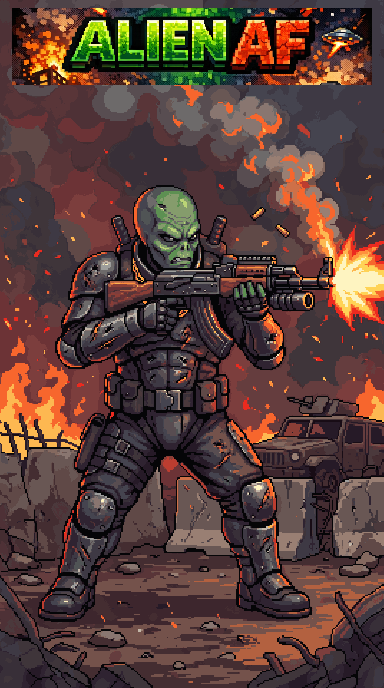
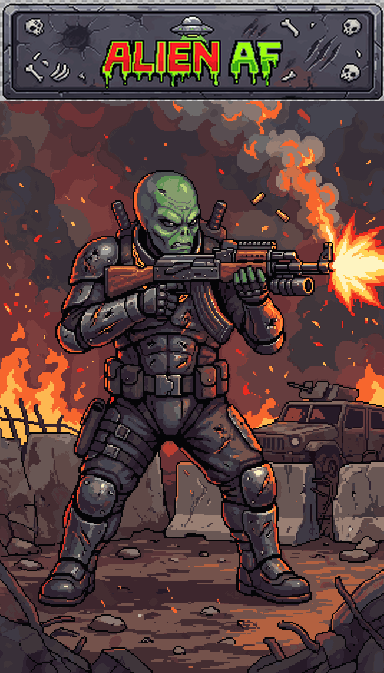
feat: themed PixelLab headers and row cards for the leaderboard page
Alien AF banner gets the new chaos/bones header. Leaderboard tabs and
section headers now use matching PixelLab art per game (Alien AF,
Currency of War, Foxstead), and score rows use themed 9-slice panels
pulled from the same generations.

diff --git a/app/components/Leaderboard.tsx b/app/components/Leaderboard.tsx
@@ -22,10 +22,9 @@ export default function Leaderboard() {
 
   const games = [
     { key: "all", title: "All Games" },
-    { key: "foxstead", title: "FoxStead" },
-    { key: "catacombs", title: "Alien Catacombs" },
-    { key: "dungeon", title: "Dungeon Crawler" },
-    { key: "invasion", title: "Gumbuo Invasion" },
+    { key: "catacombs", title: "Alien AF", header: "/leaderboard-header-alienaf.png" },
+    { key: "currencyofwar", title: "Currency of War", header: "/leaderboard-header-currencyofwar.png" },
+    { key: "foxstead", title: "FoxStead", header: "/leaderboard-header-foxstead.png" },
   ];
 
   useEffect(() => {
@@ -55,10 +54,9 @@ export default function Leaderboard() {
   // Group scores by game for "All Games" view
   const groupedScores = () => {
     const groups: { [key: string]: ScoreEntry[] } = {
-      foxstead: [],
       catacombs: [],
-      dungeon: [],
-      invasion: [],
+      currencyofwar: [],
+      foxstead: [],
     };
 
     scores.forEach((score) => {
@@ -75,18 +73,40 @@ export default function Leaderboard() {
     return game ? game.title : gameKey;
   };
 
+  const getGameHeader = (gameKey: string) => {
+    const game = games.find(g => g.key === gameKey);
+    return game && 'header' in game ? game.header : null;
+  };
+
+  const rowPanels: { [key: string]: { src: string; slice: string; width: string } } = {
+    catacombs: { src: '/leaderboard-row-alienaf.png', slice: '10 34', width: '24px' },
+    foxstead: { src: '/leaderboard-row-foxstead.png', slice: '30 110', width: '46px' },
+    currencyofwar: { src: '/leaderboard-row-currencyofwar.png', slice: '70', width: '36px' },
+  };
+  const getRowPanel = (gameKey: string) => rowPanels[gameKey] ?? null;
+
   const renderScoreRow = (entry: ScoreEntry, index: number, globalRank?: number) => {
     const rankToShow = globalRank !== undefined ? globalRank : index + 1;
-    const isCatacombs = entry.game === 'catacombs';
-    const isDungeon = entry.game === 'dungeon';
-    const isInvasion = entry.game === 'invasion';
     // Show stats for any game that has kills, highestLevel, or catacombs-specific stats
     const hasStats = entry.kills !== undefined || entry.highestLevel !== undefined || entry.crystals !== undefined || entry.healthDrops !== undefined || entry.roomsExplored !== undefined;
+    const rowPanel = getRowPanel(entry.game);
 
     return (
-      <div key={`${entry.username}-${entry.timestamp}`}>
+      <div key={`${entry.username}-${entry.timestamp}`} style={rowPanel ? { padding: '6px 4px' } : undefined}>
         <div
-          style={{
+          style={rowPanel ? {
+            display: 'grid',
+            gridTemplateColumns: selectedGame === "all" ? '80px 1fr 150px' : '80px 1fr 150px 200px',
+            gap: '20px',
+            padding: '18px 26px',
+            borderWidth: rowPanel.width,
+            borderStyle: 'solid',
+            borderColor: 'transparent',
+            borderImage: `url(${rowPanel.src}) ${rowPanel.slice} / ${rowPanel.width} stretch`,
+            fontFamily: 'Share Tech Mono, monospace',
+            fontSize: '14px',
+            color: '#00ff99',
+          } : {
             display: 'grid',
             gridTemplateColumns: selectedGame === "all" ? '80px 1fr 150px' : '80px 1fr 150px 200px',
             gap: '20px',
@@ -99,9 +119,11 @@ export default function Leaderboard() {
             transition: 'all 0.2s ease',
           }}
           onMouseEnter={(e) => {
+            if (rowPanel) return;
             e.currentTarget.style.background = 'rgba(0, 212, 255, 0.15)';
           }}
           onMouseLeave={(e) => {
+            if (rowPanel) return;
             e.currentTarget.style.background = index % 2 === 0 ? 'rgba(0, 212, 255, 0.05)' : 'transparent';
           }}
         >
@@ -222,45 +244,80 @@ export default function Leaderboard() {
           marginBottom: '40px',
           flexWrap: 'wrap',
         }}>
-          {games.map((game) => (
-            <button
-              key={game.key}
-              onClick={() => setSelectedGame(game.key)}
-              style={{
-                padding: '10px 20px',
-                background: selectedGame === game.key
-                  ? 'linear-gradient(135deg, #00d4ff, #0099cc)'
-                  : 'rgba(0, 212, 255, 0.1)',
-                color: selectedGame === game.key ? '#000' : '#00d4ff',
-                border: `2px solid ${selectedGame === game.key ? '#00d4ff' : '#00d4ff44'}`,
-                borderRadius: '6px',
-                cursor: 'pointer',
-                fontFamily: 'Orbitron, sans-serif',
-                fontWeight: 'bold',
-                fontSize: '12px',
-                textTransform: 'uppercase',
-                transition: 'all 0.3s ease',
-                boxShadow: selectedGame === game.key
-                  ? '0 0 20px rgba(0, 212, 255, 0.5)'
-                  : 'none',
-              }}
-              onMouseEnter={(e) => {
-                if (selectedGame !== game.key) {
-                  e.currentTarget.style.background = 'rgba(0, 212, 255, 0.2)';
-                  e.currentTarget.style.borderColor = '#00d4ff';
-                }
-              }}
-              onMouseLeave={(e) => {
-                if (selectedGame !== game.key) {
-                  e.currentTarget.style.background = 'rgba(0, 212, 255, 0.1)';
-                  e.currentTarget.style.borderColor = '#00d4ff44';
-                }
-              }}
-            >
-              {game.title}
-            </button>
-          ))}
+          {games.map((game) => {
+            const hasHeader = 'header' in game && !!game.header;
+            const isSelected = selectedGame === game.key;
+            return (
+              <button
+                key={game.key}
+                onClick={() => setSelectedGame(game.key)}
+                style={hasHeader ? {
+                  padding: 0,
+                  background: 'transparent',
+                  border: `2px solid ${isSelected ? '#00d4ff' : 'transparent'}`,
+                  borderRadius: '6px',
+                  cursor: 'pointer',
+                  overflow: 'hidden',
+                  opacity: isSelected ? 1 : 0.7,
+                  boxShadow: isSelected ? '0 0 20px rgba(0, 212, 255, 0.5)' : 'none',
+                  transition: 'all 0.3s ease',
+                } : {
+                  padding: '10px 20px',
+                  background: isSelected
+                    ? 'linear-gradient(135deg, #00d4ff, #0099cc)'
+                    : 'rgba(0, 212, 255, 0.1)',
+                  color: isSelected ? '#000' : '#00d4ff',
+                  border: `2px solid ${isSelected ? '#00d4ff' : '#00d4ff44'}`,
+                  borderRadius: '6px',
+                  cursor: 'pointer',
+                  fontFamily: 'Orbitron, sans-serif',
+                  fontWeight: 'bold',
+                  fontSize: '12px',
+                  textTransform: 'uppercase',
+                  transition: 'all 0.3s ease',
+                  boxShadow: isSelected ? '0 0 20px rgba(0, 212, 255, 0.5)' : 'none',
+                }}
+                onMouseEnter={(e) => {
+                  if (isSelected) return;
+                  if (hasHeader) {
+                    e.currentTarget.style.opacity = '1';
+                  } else {
+                    e.currentTarget.style.background = 'rgba(0, 212, 255, 0.2)';
+                    e.currentTarget.style.borderColor = '#00d4ff';
+                  }
+                }}
+                onMouseLeave={(e) => {
+                  if (isSelected) return;
+                  if (hasHeader) {
+                    e.currentTarget.style.opacity = '0.7';
+                  } else {
+                    e.currentTarget.style.background = 'rgba(0, 212, 255, 0.1)';
+                    e.currentTarget.style.borderColor = '#00d4ff44';
+                  }
+                }}
+              >
+                {hasHeader ? (
+                  <img
+                    src={(game as { header: string }).header}
+                    alt={game.title}
+                    style={{ height: '36px', width: 'auto', display: 'block' }}
+                  />
+                ) : (
+                  game.title
+                )}
+              </button>
+            );
+          })}
         </div>
+
+        {/* Selected Game Header */}
+        {selectedGame !== 'all' && getGameHeader(selectedGame) && (
+          <img
+            src={getGameHeader(selectedGame) ?? ''}
+            alt={getGameTitle(selectedGame)}
+            style={{ display: 'block', maxWidth: '600px', width: '100%', height: 'auto', margin: '0 auto 20px' }}
+          />
+        )}
 
         {/* Leaderboard Table */}
         {loading ? (
@@ -274,18 +331,30 @@ export default function Leaderboard() {
             Loading scores...
           </div>
         ) : scores.length === 0 ? (
-          <div style={{
-            textAlign: 'center',
-            color: '#00ff99',
-            fontFamily: 'Share Tech Mono, monospace',
-            fontSize: '16px',
-            padding: '40px',
-            background: 'rgba(0, 212, 255, 0.1)',
-            border: '2px solid #00d4ff44',
-            borderRadius: '12px',
-          }}>
-            No scores yet. Be the first to play and set a record!
-          </div>
+          (() => {
+            const emptyPanel = selectedGame !== 'all' ? getRowPanel(selectedGame) : null;
+            return (
+              <div style={{
+                textAlign: 'center',
+                color: '#00ff99',
+                fontFamily: 'Share Tech Mono, monospace',
+                fontSize: '16px',
+                padding: '50px 20px',
+                ...(emptyPanel ? {
+                  borderWidth: emptyPanel.width,
+                  borderStyle: 'solid',
+                  borderColor: 'transparent',
+                  borderImage: `url(${emptyPanel.src}) ${emptyPanel.slice} / ${emptyPanel.width} stretch`,
+                } : {
+                  background: 'rgba(0, 212, 255, 0.1)',
+                  border: '2px solid #00d4ff44',
+                  borderRadius: '12px',
+                }),
+              }}>
+                No scores yet. Be the first to play and set a record!
+              </div>
+            );
+          })()
         ) : selectedGame === "all" ? (
           // Show games in separate sections
           <div style={{ display: 'flex', flexDirection: 'column', gap: '40px' }}>
@@ -293,26 +362,21 @@ export default function Leaderboard() {
               if (gameScores.length === 0) return null;
 
               return (
-                <div key={gameKey} style={{
-                  background: 'linear-gradient(135deg, #1a1a2e, #0f0f1e)',
-                  border: '2px solid #00d4ff',
-                  borderRadius: '12px',
-                  overflow: 'hidden',
-                  boxShadow: '0 0 40px rgba(0, 212, 255, 0.3)',
-                }}>
+                <div key={gameKey}>
                   {/* Game Section Title */}
+                  <img
+                    src={getGameHeader(gameKey) ?? ''}
+                    alt={getGameTitle(gameKey)}
+                    style={{ display: 'block', width: '100%', height: 'auto', marginBottom: '4px' }}
+                  />
+
                   <div style={{
-                    padding: '20px',
-                    background: 'linear-gradient(135deg, #00d4ff, #0099cc)',
-                    fontFamily: 'Orbitron, sans-serif',
-                    fontWeight: 'bold',
-                    fontSize: '24px',
-                    color: '#000',
-                    textTransform: 'uppercase',
-                    borderBottom: '2px solid #00d4ff',
+                    background: 'linear-gradient(135deg, #1a1a2e, #0f0f1e)',
+                    border: '2px solid #00d4ff',
+                    borderRadius: '12px',
+                    overflow: 'hidden',
+                    boxShadow: '0 0 40px rgba(0, 212, 255, 0.3)',
                   }}>
-                    {getGameTitle(gameKey)}
-                  </div>
 
                   {/* Table Header */}
                   <div style={{
@@ -334,6 +398,7 @@ export default function Leaderboard() {
 
                   {/* Table Rows - Show top 10 per game */}
                   {gameScores.slice(0, 10).map((entry, index) => renderScoreRow(entry, index))}
+                  </div>
                 </div>
               );
             })}
